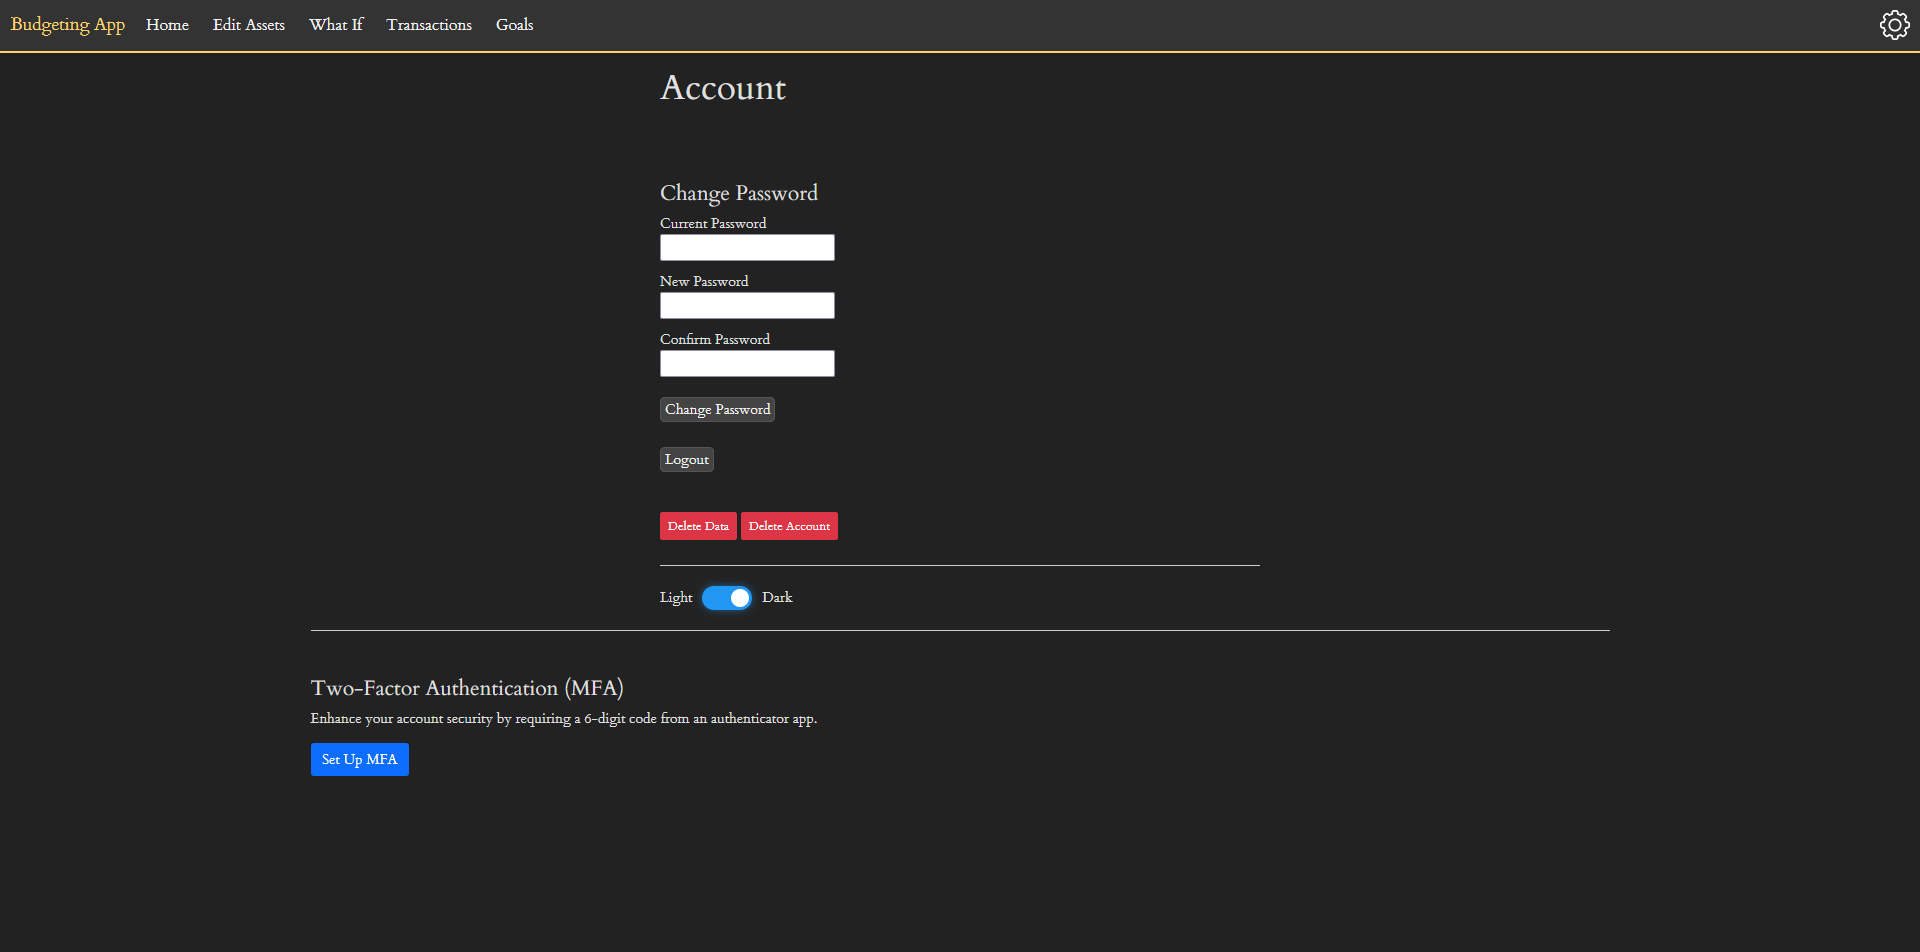
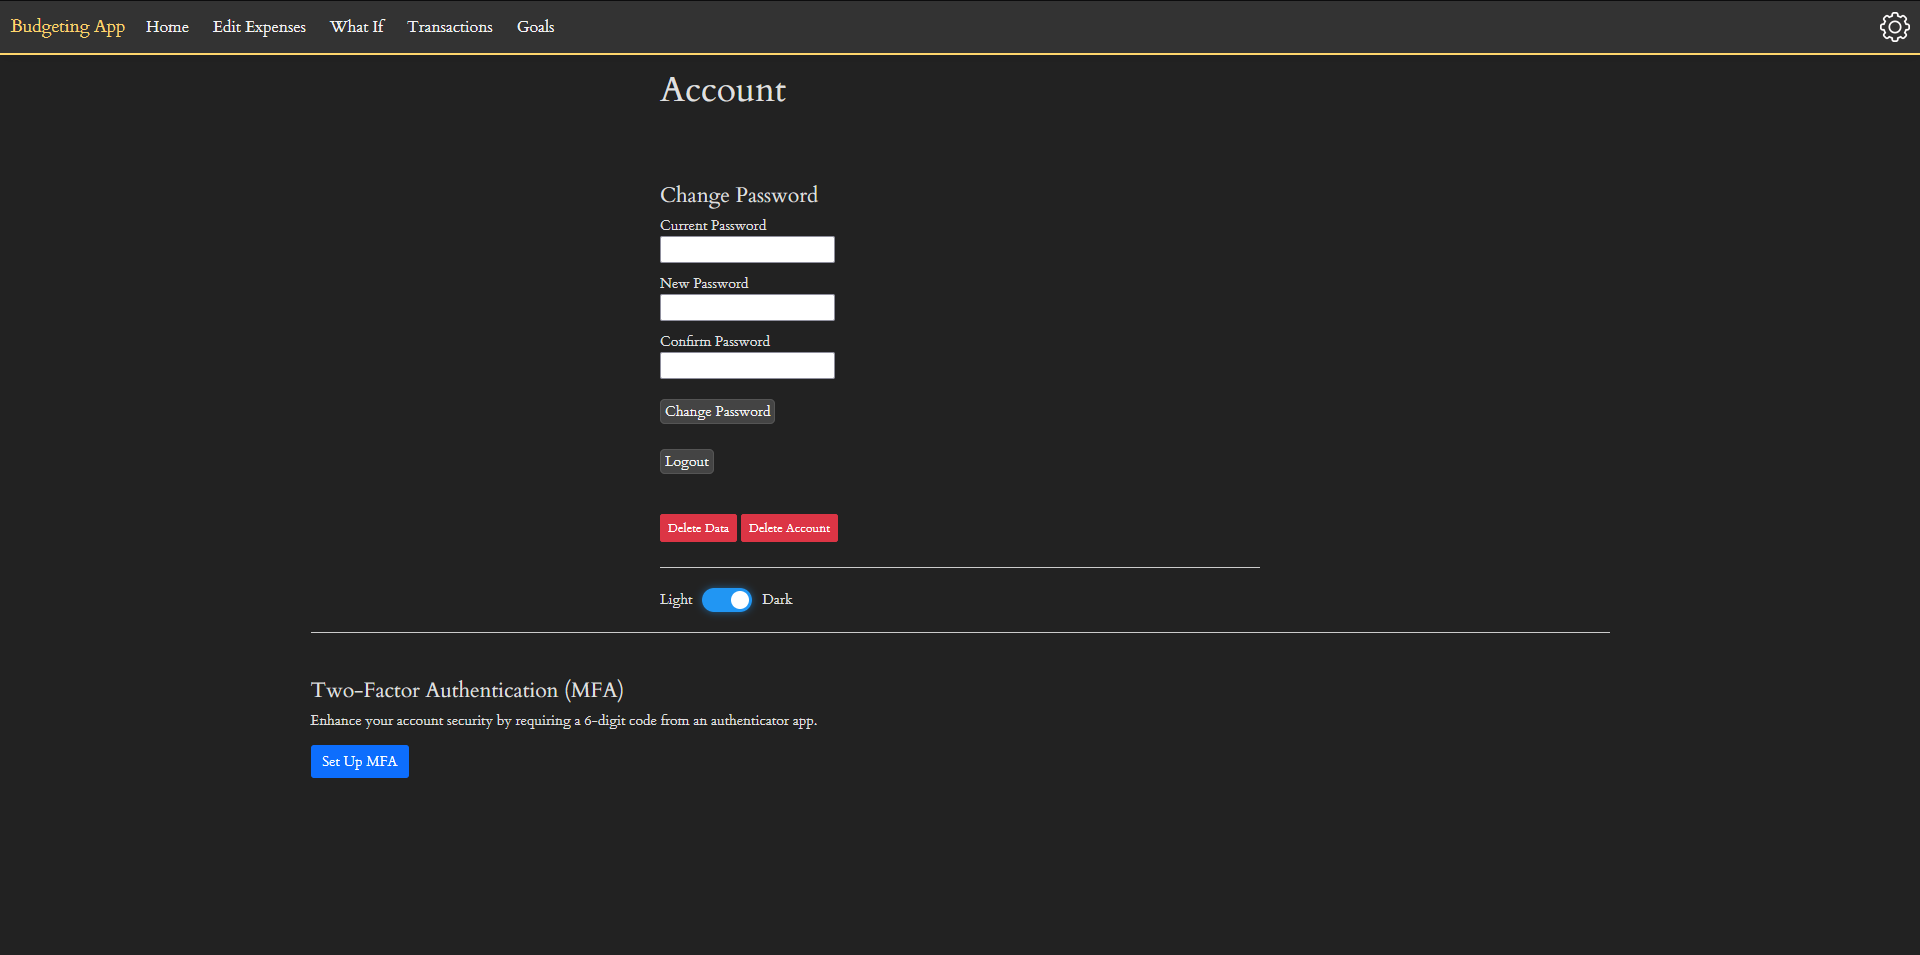
Refactor all instances of "Asset" to "Expense"; Update all screenshots

diff --git a/BudgetingApp/Controllers/HomeController.cs b/BudgetingApp/Controllers/HomeController.cs
@@ -18,10 +18,10 @@ namespace BudgetingApp.Controllers
         private readonly string _transactionsCollection = "Transactions";
         private readonly string _goalsCollection = "Goals";
         private readonly BudgetingApp.Services.IAssetService _iassetService;
-        private readonly AssetService _assetService;
+        private readonly ExpenseService _assetService;
 
 
-        public HomeController(ILogger<HomeController> logger, FirestoreDb firestoreDb, IAssetService iassetService, AssetService assetService)
+        public HomeController(ILogger<HomeController> logger, FirestoreDb firestoreDb, IAssetService iassetService, ExpenseService assetService)
         {
             _logger = logger;
             _firestoreDb = firestoreDb;
@@ -43,7 +43,7 @@ namespace BudgetingApp.Controllers
                 return RedirectToAction("Login", "Auth");
 
             // Get the Asset documenet for the current user
-            List<AssetModel> assets = await _assetService.GetAssetsByUsernameAsync(currentUser);
+            List<ExpenseModel> assets = await _assetService.GetAssetsByUsernameAsync(currentUser);
 
             return View(assets);
         }
@@ -53,7 +53,7 @@ namespace BudgetingApp.Controllers
         /// </summary>
         /// <returns>Assets data for the current user</returns>
         [HttpGet]
-        public async Task<IActionResult> EditAssets()
+        public async Task<IActionResult> EditExpenses()
         {
             // Determine who is currently logged in 
             string currentUser = HttpContext.Session.GetString("Username");
@@ -62,7 +62,7 @@ namespace BudgetingApp.Controllers
             if (string.IsNullOrEmpty(currentUser))
                 return RedirectToAction("Login", "Auth");
 
-            AssetModel asset = await _assetService.GetAssetByUsernameAsync(currentUser);
+            ExpenseModel asset = await _assetService.GetAssetByUsernameAsync(currentUser);
 
             if (asset == null)
                 return NotFound();
@@ -76,7 +76,7 @@ namespace BudgetingApp.Controllers
         /// <param name="model">The new Asset data</param>
         /// <returns>The page with the new Asset data</returns> 
         [HttpPost]
-        public async Task<IActionResult> EditAssets(AssetModel model)
+        public async Task<IActionResult> EditExpenses(ExpenseModel model)
         {
             // Determine who is logged in
             string currentUser = HttpContext.Session.GetString("Username");
@@ -195,7 +195,7 @@ namespace BudgetingApp.Controllers
                 .WhereEqualTo("username", currentUser)
                 .GetSnapshotAsync();
 
-            List<AssetModel> assets = _assetService.MapSnapshotsToAssets(snapshot);
+            List<ExpenseModel> assets = _assetService.MapSnapshotsToAssets(snapshot);
 
             return View(assets);
         }
@@ -353,7 +353,7 @@ namespace BudgetingApp.Controllers
             transactions = transactions.OrderByDescending(t => t.Date).ToList();
 
             // Retrieve the asset information for the current user
-            AssetModel asset = await _iassetService.GetAssetByUsernameAsync(currentUser);
+            ExpenseModel asset = await _iassetService.GetAssetByUsernameAsync(currentUser);
 
             // Create the ViewModel and populate it
             var viewModel = new TransactionsAndAssetsViewModel

diff --git a/BudgetingApp/Services/ExpenseService.cs b/BudgetingApp/Services/ExpenseService.cs
@@ -4,12 +4,12 @@ using Google.Cloud.Firestore.V1;
 
 namespace BudgetingApp.Services
 {
-    public class AssetService : IAssetService
+    public class ExpenseService : IAssetService
     {
         private readonly FirestoreDb _db;
         private readonly string _assetsCollection = "Assets";
 
-        public AssetService(FirestoreDb db)
+        public ExpenseService(FirestoreDb db)
         {
             _db = db;
         }
@@ -23,35 +23,35 @@ namespace BudgetingApp.Services
             return snapshot;
         }
 
-        public async Task<AssetModel> GetAssetByUsernameAsync(string currentUser)
+        public async Task<ExpenseModel> GetAssetByUsernameAsync(string currentUser)
         {
             QuerySnapshot snapshot = await _db.Collection(_assetsCollection)
                 .WhereEqualTo("username", currentUser)
                 .GetSnapshotAsync();
 
-            AssetModel asset = MapSnapshotToAsset(snapshot.Documents[0]);
+            ExpenseModel asset = MapSnapshotToAsset(snapshot.Documents[0]);
 
             return asset;
         }
 
-        public async Task<List<AssetModel>> GetAssetsByUsernameAsync(string currentUser)
+        public async Task<List<ExpenseModel>> GetAssetsByUsernameAsync(string currentUser)
         {
             QuerySnapshot snapshot = await _db.Collection(_assetsCollection)
                 .WhereEqualTo("username", currentUser)
                 .GetSnapshotAsync();
 
-            List<AssetModel> assets = MapSnapshotsToAssets(snapshot);
+            List<ExpenseModel> assets = MapSnapshotsToAssets(snapshot);
 
             return assets;
         }
 
-        public AssetModel MapSnapshotToAsset(DocumentSnapshot snapshot)
+        public ExpenseModel MapSnapshotToAsset(DocumentSnapshot snapshot)
         {
                 if (!snapshot.Exists) return null;
 
                 /*** Firestore can either store numbers as type long or double, so we need to make sure that we cast accordingly ***/
 
-                var asset = new AssetModel
+                var asset = new ExpenseModel
                 {
                     Balance = Math.Round(GetNumericValue(snapshot, "balance"), 2),
                     Income = Math.Round(GetNumericValue(snapshot, "income"), 2),
@@ -72,9 +72,9 @@ namespace BudgetingApp.Services
             return asset;
         }
 
-        public List<AssetModel> MapSnapshotsToAssets(QuerySnapshot snapshot)
+        public List<ExpenseModel> MapSnapshotsToAssets(QuerySnapshot snapshot)
         {
-            var assets = new List<AssetModel>();
+            var assets = new List<ExpenseModel>();
             foreach (var doc in snapshot.Documents)
             {
                 var asset = MapSnapshotToAsset(doc);

diff --git a/BudgetingApp/Program.cs b/BudgetingApp/Program.cs
@@ -71,8 +71,8 @@ catch (Exception ex)
 
 // Dependency Injection
 builder.Services.AddScoped<UserService>();
-builder.Services.AddScoped<IAssetService, AssetService>();
-builder.Services.AddScoped<AssetService>();
+builder.Services.AddScoped<IAssetService, ExpenseService>();
+builder.Services.AddScoped<ExpenseService>();
 
 var app = builder.Build();
 

diff --git a/BudgetingApp/Services/IAssetService.cs b/BudgetingApp/Services/IAssetService.cs
@@ -5,7 +5,7 @@ namespace BudgetingApp.Services
 {
     public interface IAssetService
     {
-        Task<AssetModel> GetAssetByUsernameAsync(string username);
+        Task<ExpenseModel> GetAssetByUsernameAsync(string username);
         Task<bool> IncrementBalanceAsync(string username, double amount);
     }
 }

diff --git a/BudgetingApp/Models/TransactionsAndAssetsModel.cs b/BudgetingApp/Models/TransactionsAndAssetsModel.cs
@@ -3,6 +3,6 @@
     public class TransactionsAndAssetsViewModel
     {
         public IEnumerable<TransactionModel> Transactions { get; set; }
-        public AssetModel Asset { get; set; }
+        public ExpenseModel Asset { get; set; }
     }
 }

diff --git a/BudgetingApp/Models/ExpenseModel.cs b/BudgetingApp/Models/ExpenseModel.cs
@@ -2,7 +2,7 @@
 
 namespace BudgetingApp.Models
 {
-    public class AssetModel
+    public class ExpenseModel
     {
         [FirestoreProperty("balance")]
         public double Balance { get; set; }
